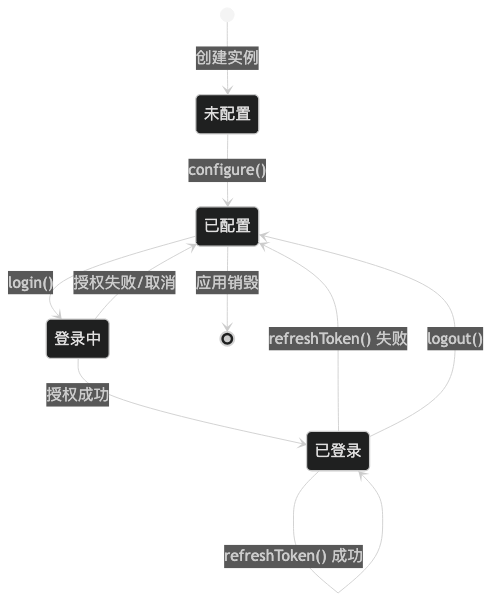
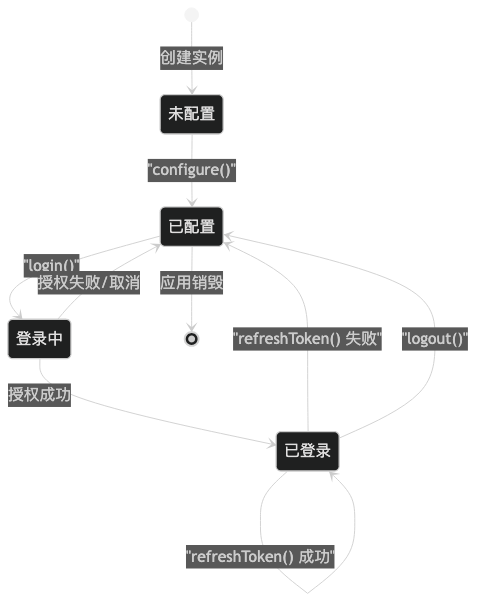
Fix remaining Mermaid syntax errors for GitHub compatibility
- Quote all node names containing parentheses and special characters
- Fix sections 6, 7, and 8 diagram syntax issues
- Test all diagrams locally to ensure proper rendering
- Update both source .mmd files and generated PNG images

🤖 Generated with [Claude Code](https://claude.ai/code)

diff --git a/SDK_FLOW_DIAGRAM.md b/SDK_FLOW_DIAGRAM.md
@@ -245,7 +245,7 @@ graph TD
     D -->|支持| G[启动授权流程]
     
     G --> H{授权结果}
-    H -->|用户取消| I[onCancel()]
+    H -->|用户取消| I["onCancel()"]
     H -->|授权拒绝| J[ERROR_AUTH_DENIED]
     H -->|授权成功| K[交换token]
     
@@ -258,7 +258,7 @@ graph TD
     
     P --> Q{用户信息}
     Q -->|失败| R[ERROR_USER_INFO_FAILED]
-    Q -->|成功| S[onSuccess()]
+    Q -->|成功| S["onSuccess()"]
     
     style C fill:#ffcdd2
     style E fill:#ffcdd2
@@ -277,13 +277,13 @@ graph TD
 
 ```mermaid
 graph TD
-    A[存储敏感数据] --> B[CryptoUtils.encrypt()]
+    A[存储敏感数据] --> B["CryptoUtils.encrypt()"]
     B --> C[生成设备唯一密钥]
     C --> D[AES加密数据]
     D --> E[保存到SharedPreferences]
     
     F[读取敏感数据] --> G[从SharedPreferences读取]
-    G --> H[CryptoUtils.decrypt()]  
+    G --> H["CryptoUtils.decrypt()"]  
     H --> I[使用设备密钥解密]
     I --> J[返回明文数据]
     
@@ -307,14 +307,14 @@ graph TD
 ```mermaid
 stateDiagram-v2
     [*] --> 未配置: 创建实例
-    未配置 --> 已配置: configure()
-    已配置 --> 登录中: login()
+    未配置 --> 已配置: "configure()"
+    已配置 --> 登录中: "login()"
     登录中 --> 已登录: 授权成功
     登录中 --> 已配置: 授权失败/取消
-    已登录 --> 已登录: getUserInfo()
-    已登录 --> 已登录: refreshToken() 成功
-    已登录 --> 已配置: refreshToken() 失败
-    已登录 --> 已配置: logout()
+    已登录 --> 已登录: "getUserInfo()"
+    已登录 --> 已登录: "refreshToken() 成功"
+    已登录 --> 已配置: "refreshToken() 失败"
+    已登录 --> 已配置: "logout()"
     已配置 --> [*]: 应用销毁
 ```
 
